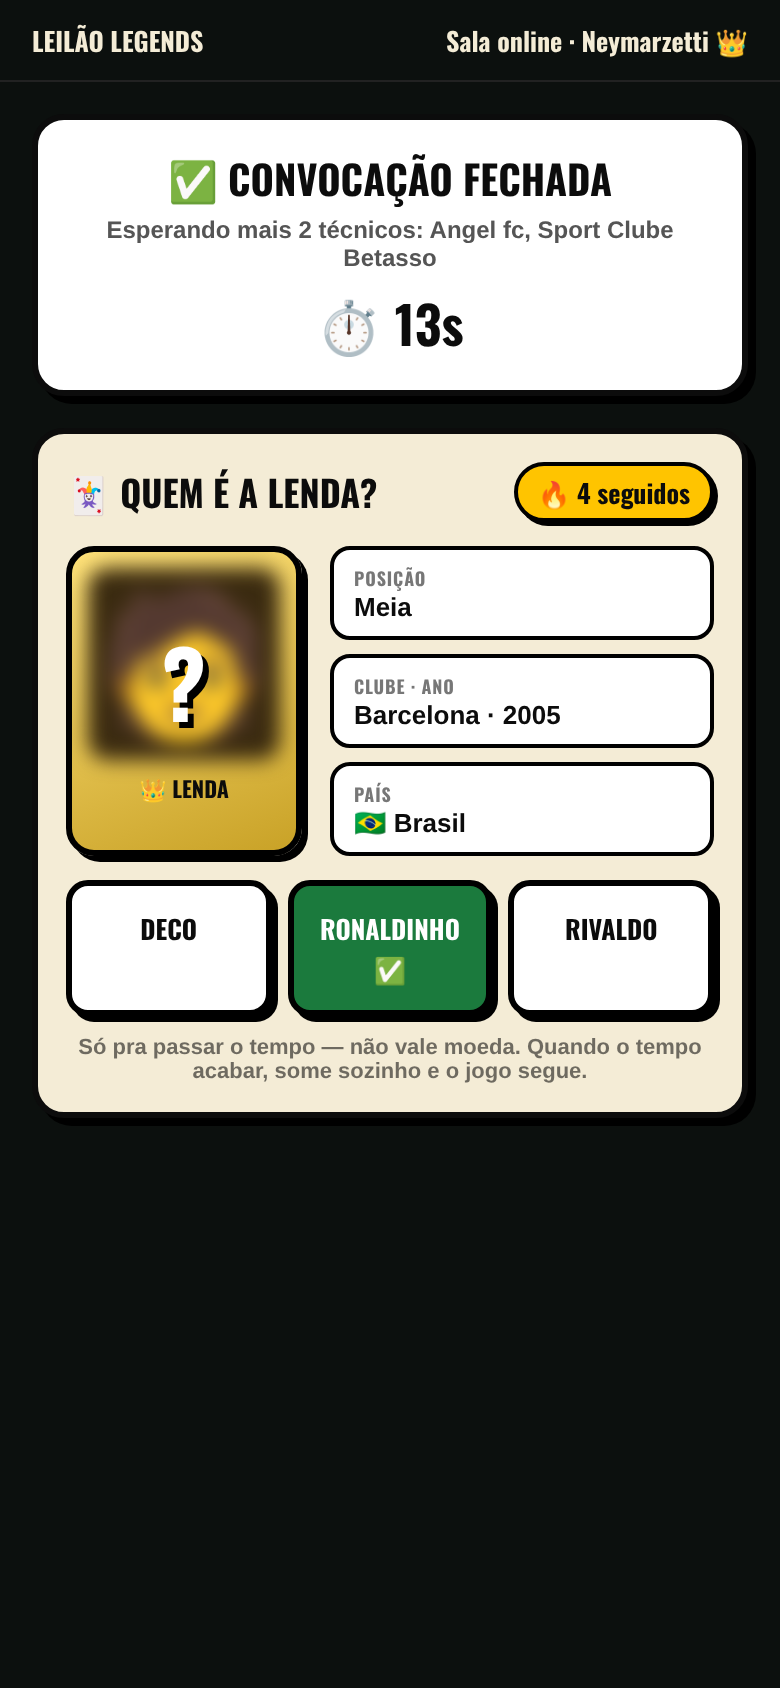
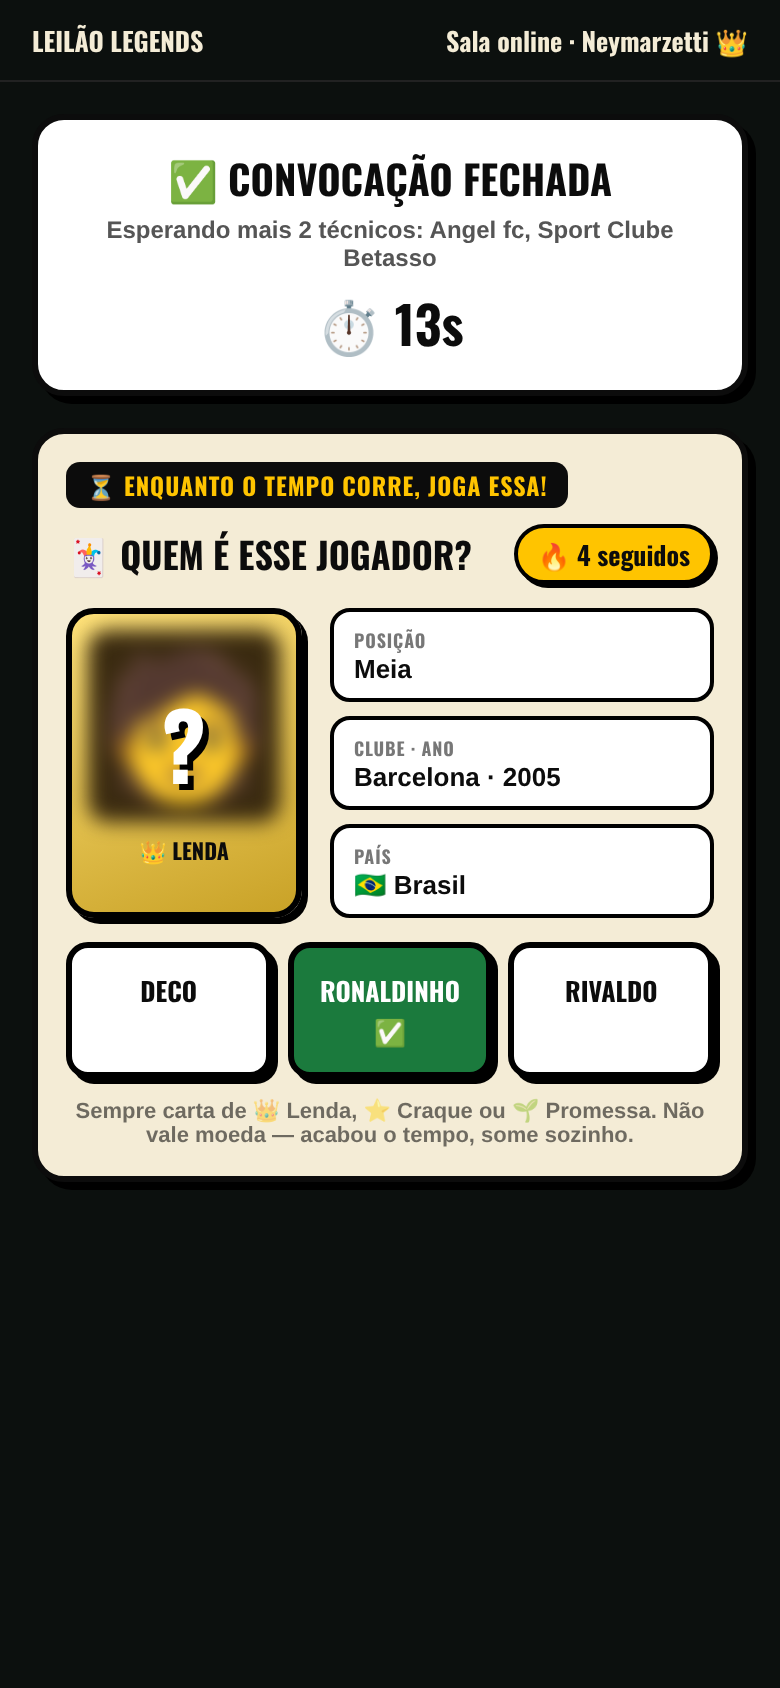
Mockup 'Quem é esse jogador?': frase curta em cima e só Lenda/Craque/Promessa — esperando OK
Claude-Session: https://claude.ai/code/session_018Ap1zPCMVL9XeZJN3u93ZA

Changed region(s): [[0.0308, 0.2464, 0.9538, 0.7085]]

diff --git a/scripts/teste-formacoes/quiz-mockup.html b/scripts/teste-formacoes/quiz-mockup.html
@@ -8,6 +8,7 @@
 .h{font:900 20px Oswald;text-transform:uppercase;margin:0}.sub{font-size:12px;font-weight:700;color:#555;margin:4px 0 6px}
 .t{font:900 26px Oswald}
 .quiz{margin-top:16px;background:#F4ECD6;border:3px solid #0c0c0c;border-radius:16px;box-shadow:4px 4px 0 #000;padding:14px}
+.kick{margin:0 0 8px;font:900 12px Oswald;text-transform:uppercase;letter-spacing:.04em;background:#0c0c0c;color:#FFC400;display:inline-block;padding:3px 10px;border-radius:7px}
 .qh{display:flex;justify-content:space-between;align-items:center}
 .qh b{font:900 18px Oswald;text-transform:uppercase}
 .streak{background:#FFC400;border:2.5px solid #000;border-radius:999px;padding:3px 10px;font:900 13px Oswald;box-shadow:2px 2px 0 #000}
@@ -30,7 +31,8 @@
 <div class="wrap">
  <div class="box"><p class="h">✅ Convocação fechada</p><p class="sub">Esperando mais 2 técnicos: Angel fc, Sport Clube Betasso</p><div class="t">⏱ 13s</div></div>
  <div class="quiz">
-  <div class="qh"><b>🃏 Quem é a lenda?</b><span class="streak">🔥 4 seguidos</span></div>
+  <p class="kick">⏳ Enquanto o tempo corre, joga essa!</p>
+  <div class="qh"><b>🃏 Quem é esse jogador?</b><span class="streak">🔥 4 seguidos</span></div>
   <div class="row">
    <div class="card"><div class="face">🧑</div><div class="q">?</div><div class="cat">👑 Lenda</div></div>
    <div class="pistas">
@@ -40,6 +42,6 @@
    </div>
   </div>
   <div class="ops"><div class="op">Deco</div><div class="op ok">Ronaldinho ✅</div><div class="op">Rivaldo</div></div>
-  <p class="nota">Só pra passar o tempo — não vale moeda. Quando o tempo acabar, some sozinho e o jogo segue.</p>
+  <p class="nota">Sempre carta de 👑 Lenda, ⭐ Craque ou 🌱 Promessa. Não vale moeda — acabou o tempo, some sozinho.</p>
  </div>
 </div></body></html>
